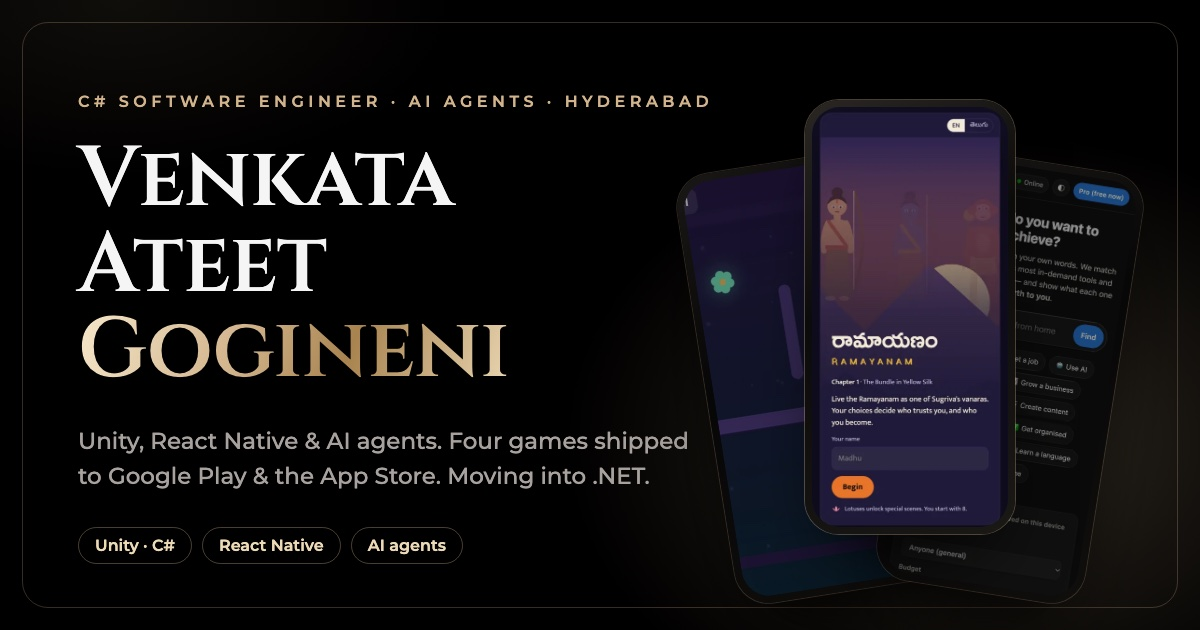
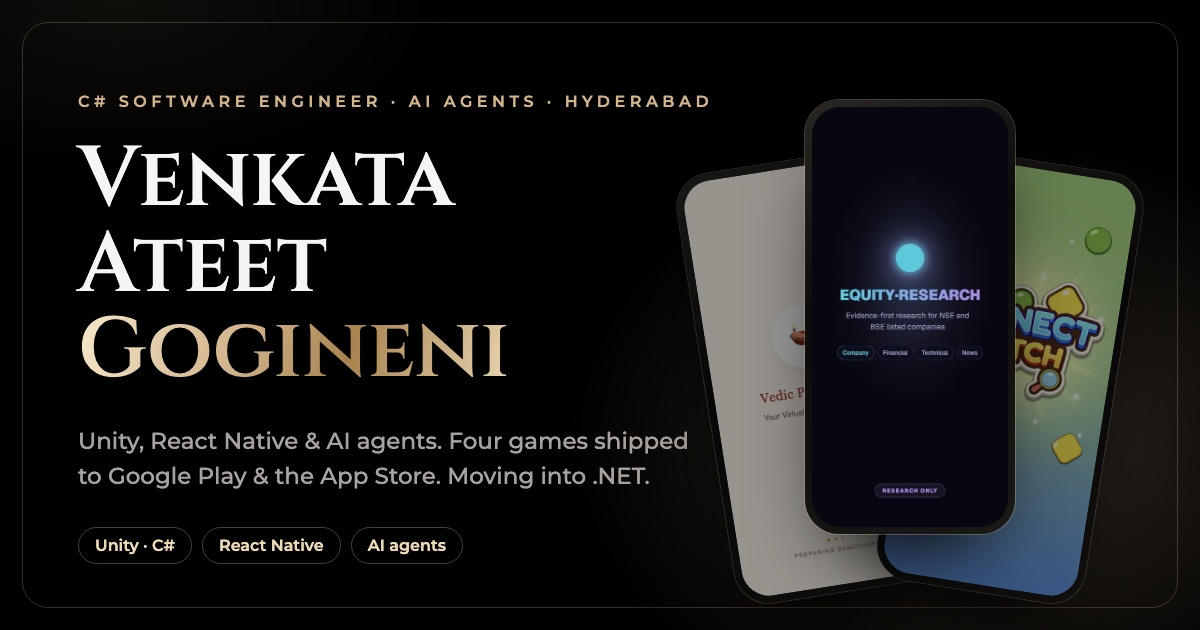
Hero splash screens, new projects, full name and copy updates
- Hero: five phones showing splash screens, colours mirrored around the
  centre: Land Lawyers, Vedic Pooja Guru, Equity Research, Connect Match,
  Home Server. Phones rise from the centre and fan out on scroll
- Splash screens built from each project's real branding; Connect Match
  uses the game's own splash screen
- Projects: stock card branded "Equity Research Agent"; new Vedic Pooja
  Guru and Glowpath cards; WorthIt beside Vedic; Glowpath, Ramayanam and
  Glowmoth in one games row; Land Lawyers links to landlawyers.in
- Top bar shows the full name; rewritten statement; "12K+ downloads
  across all games"; link-preview image matches the hero
- Remove unused hero screenshots

Changed region(s): [[0.555, 0.1508, 0.9558, 0.9651]]

diff --git a/index.html b/index.html
@@ -61,7 +61,7 @@
   <header class="nav" id="nav">
     <div class="nav-inner">
       <a href="#top" class="nav-logo" aria-label="Venkata Ateet Gogineni, back to top">
-        <span class="monogram">VA</span><span class="nav-name">Venkata Ateet</span>
+        <span class="monogram">VA</span><span class="nav-name">Venkata Ateet Gogineni</span>
       </a>
       <nav aria-label="Primary">
         <ul class="nav-links" id="navLinks">
@@ -118,10 +118,14 @@
       </div>
 
       <div class="hero-phones" aria-hidden="true">
-        <!-- Personal projects: Glowmoth (Unity), Ramayanam (web game), WorthIt (PWA) -->
-        <div class="hero-phone hp-left"><div class="phone"><div class="phone-screen"><img src="assets/img/projects/glowmoth-mobile.webp" alt="" width="420" height="748" fetchpriority="high" /></div></div></div>
-        <div class="hero-phone hp-center"><div class="phone"><div class="phone-screen"><img src="assets/img/projects/ramayanam-mobile.webp" alt="" width="420" height="909" fetchpriority="high" /></div><span class="island"></span></div></div>
-        <div class="hero-phone hp-right"><div class="phone"><div class="phone-screen"><img src="assets/img/projects/worthit-mobile.webp" alt="" width="420" height="909" fetchpriority="high" /></div></div></div>
+        <!-- Five splash screens, colours mirrored around the centre:
+             Land Lawyers (dark) · Vedic Pooja Guru (colour) · Equity Research (dark, centre) · Connect Match (colour) · Home Server (dark).
+             data-ring = distance from centre (intro order). -->
+        <div class="hero-phone hp-1" data-ring="2"><div class="phone"><div class="phone-screen"><img src="assets/img/projects/landlawyers-splash.webp" alt="" width="420" height="909" /></div></div></div>
+        <div class="hero-phone hp-2" data-ring="1"><div class="phone"><div class="phone-screen"><img src="assets/img/projects/vedic-splash.webp" alt="" width="420" height="909" fetchpriority="high" /></div></div></div>
+        <div class="hero-phone hp-3" data-ring="0"><div class="phone"><div class="phone-screen"><img src="assets/img/projects/equity-splash.webp" alt="" width="420" height="909" fetchpriority="high" /></div><span class="island"></span></div></div>
+        <div class="hero-phone hp-4" data-ring="1"><div class="phone"><div class="phone-screen"><img src="assets/img/projects/connect-splash.webp" alt="" width="420" height="913" fetchpriority="high" /></div></div></div>
+        <div class="hero-phone hp-5" data-ring="2"><div class="phone"><div class="phone-screen"><img src="assets/img/projects/homeserver-splash.webp" alt="" width="420" height="909" /></div></div></div>
       </div>
 
       <a href="#statement" class="scroll-cue" aria-label="Scroll down"><svg><use href="#i-down"/></svg></a>
@@ -131,7 +135,7 @@
     <section class="statement" id="statement">
       <div class="container">
         <p class="statement-text" data-words>
-          I take ideas from a blank canvas to the <em>store</em>. Game design, art, code and QA, done <em>end to end</em>. At PurpleTalk I work <em>AI-first</em>: I create and run agents with Claude Code, Codex and Antigravity across <em>projects in parallel</em>, while I own design, review and testing.
+          From first sketch to store listing, I build games and apps <em>end to end</em>. I work <em>AI-first</em>, with agents running <em>in parallel</em>, so more gets shipped while I stay in charge of design, review and testing.
         </p>
       </div>
     </section>
@@ -140,7 +144,7 @@
     <section class="stats" aria-label="Highlights">
       <div class="container stats-grid">
         <div class="stat" data-reveal><span class="stat-num"><span data-count="4">4</span>+</span><span class="stat-label">Years building<br/>for mobile</span></div>
-        <div class="stat" data-reveal><span class="stat-num"><span data-count="12">12</span>K+</span><span class="stat-label">Downloads across<br/>my solo games</span></div>
+        <div class="stat" data-reveal><span class="stat-num"><span data-count="12">12</span>K+</span><span class="stat-label">Downloads across<br/>all games</span></div>
         <div class="stat" data-reveal><span class="stat-num"><span data-count="14">14</span>+</span><span class="stat-label">Major projects<br/>delivered</span></div>
         <div class="stat" data-reveal><span class="stat-num"><span data-count="50">50</span>+</span><span class="stat-label">Dashboards<br/>built</span></div>
       </div>
@@ -254,9 +258,10 @@
         </div>
 
         <div class="bento">
-          <!-- AI Stock Research -->
+          <!-- Equity Research Agent (AI Stock Research Platform) -->
           <article class="card card-feature" data-card>
             <div class="card-visual agents" aria-hidden="true">
+              <div class="eq-brand"><i></i><span>EQUITY·RESEARCH</span></div>
               <div class="agent-q">Search: "TCS"</div>
               <div class="agent-row">
                 <span class="agent">Company</span><span class="agent">Financial</span><span class="agent">Technical</span><span class="agent">News</span>
@@ -265,9 +270,9 @@
               <div class="agent-out">Source-backed report<small>every figure cited · replayable snapshot</small></div>
             </div>
             <div class="card-body">
-              <p class="card-kicker">Personal · AI agents</p>
-              <h3 class="card-title">AI Stock Research Platform</h3>
-              <p>Source-backed research reports for NSE-listed companies. Company, Financial, Technical and News agents plus a bull-vs-bear debate run in parallel on the Claude or Gemini API with model fallback, and a verification step strips any uncited fact. Deterministic engines handle ratios, 20+ data-quality checks, risk metrics and walk-forward forecasts; an options module prices with Black-Scholes and binomial models across 13 strategies. Every report is a hashed, replayable snapshot.</p>
+              <p class="card-kicker">Personal · AI stock research platform</p>
+              <h3 class="card-title">Equity Research Agent</h3>
+              <p>Evidence-first, source-backed research reports for NSE and BSE listed companies. Company, Financial, Technical and News agents plus a bull-vs-bear debate run in parallel on the Claude or Gemini API with model fallback, and a verification step strips any uncited fact. Deterministic engines handle ratios, 20+ data-quality checks, risk metrics and walk-forward forecasts; an options module prices with Black-Scholes and binomial models across 13 strategies. Every report is a hashed, replayable snapshot.</p>
               <ul class="chips"><li>Python</li><li>FastAPI</li><li>Next.js</li><li>React</li><li>TypeScript</li><li>Claude &amp; Gemini APIs</li><li>SQLAlchemy</li><li>pytest</li></ul>
               <div class="card-links"><a href="https://github.com/ateetgogineni/Stock_Market" target="_blank" rel="noopener" class="link"><svg><use href="#i-github"/></svg>Source</a></div>
             </div>
@@ -281,11 +286,27 @@
               <h3 class="card-title">Land Lawyers</h3>
               <p>Land verification and legal services platform for Telangana and Andhra Pradesh: a public website plus a separate team dashboard, both on one Node.js and PostgreSQL backend, packaged with Docker for the client to host.</p>
               <ul class="chips"><li>Node.js</li><li>PostgreSQL</li><li>Docker</li><li>HTML · CSS · JS</li></ul>
+              <div class="card-links"><a href="https://landlawyers.in/" target="_blank" rel="noopener" class="link link-gold"><svg><use href="#i-arrow"/></svg>Visit site</a></div>
+            </div>
+          </article>
+
+          <!-- Vedic Pooja Guru -->
+          <article class="card card-half" data-card>
+            <div class="card-shot card-screens" aria-hidden="true">
+              <img src="assets/img/projects/vedic-home.webp" alt="" width="420" height="1452" loading="lazy" />
+              <img src="assets/img/projects/vedic-ganesh.webp" alt="" width="420" height="1310" loading="lazy" />
+              <img src="assets/img/projects/vedic-deepa.webp" alt="" width="420" height="952" loading="lazy" />
+            </div>
+            <div class="card-body">
+              <p class="card-kicker">Personal · Mobile app</p>
+              <h3 class="card-title">Vedic Pooja Guru</h3>
+              <p>AI-powered pooja assistant that guides users step by step through Hindu rituals, works out item quantities from the headcount and answers questions by voice, personalised by region and language. Includes a pooja library with search, daily rituals, panchangam, an astrology profile and AI chat.</p>
+              <ul class="chips"><li>React Native</li><li>TypeScript</li><li>Supabase</li><li>Text-to-speech</li><li>AI chat</li></ul>
             </div>
           </article>
 
           <!-- WorthIt -->
-          <article class="card" data-card>
+          <article class="card card-half" data-card>
             <div class="card-shot"><img src="assets/img/projects/worthit.webp" alt="WorthIt dashboard: What do you want to achieve?" width="900" height="563" loading="lazy" /></div>
             <div class="card-body">
               <p class="card-kicker">Personal · PWA</p>
@@ -296,6 +317,18 @@
                 <a href="https://ateetgogineni.github.io/worthit-dashboard/" target="_blank" rel="noopener" class="link link-gold"><svg><use href="#i-arrow"/></svg>Live</a>
                 <a href="https://github.com/ateetgogineni/worthit-dashboard" target="_blank" rel="noopener" class="link"><svg><use href="#i-github"/></svg>Source</a>
               </div>
+            </div>
+          </article>
+
+          <!-- Games row: Glowpath, Ramayanam, Glowmoth -->
+          <!-- Glowpath -->
+          <article class="card" data-card>
+            <div class="card-shot"><img src="assets/img/projects/glowpath.webp" alt="Glowpath title screen: Bend the light. Wake the crystals." width="900" height="563" loading="lazy" /></div>
+            <div class="card-body">
+              <p class="card-kicker">Personal · Puzzle game</p>
+              <h3 class="card-title">Glowpath</h3>
+              <p>A calm light-bending logic puzzle with a new challenge every day. A level generator keeps only solvable, quality-checked puzzles and a verifier proves every level can be solved. WebAudio sound; installs as an offline PWA and ships as an Android app.</p>
+              <ul class="chips"><li>JavaScript</li><li>Procedural generation</li><li>WebAudio</li><li>PWA</li><li>Android</li></ul>
             </div>
           </article>
 

diff --git a/css/style.css b/css/style.css
@@ -238,7 +238,10 @@ em { font-style: normal; }
   color: var(--gold);
   background: linear-gradient(160deg, rgba(210, 180, 140, 0.14), rgba(210, 180, 140, 0.02));
 }
-.nav-name { font-family: var(--font-display); font-size: 17px; font-weight: 500; letter-spacing: 0.06em; }
+.nav-name { font-family: var(--font-display); font-size: 17px; font-weight: 500; letter-spacing: 0.06em; white-space: nowrap; }
+@media (max-width: 1180px) { .nav-name { font-size: 15px; letter-spacing: 0.04em; } }
+@media (max-width: 640px) { .nav-name { font-size: 13px; letter-spacing: 0.02em; } }
+@media (max-width: 360px) { .nav-name { font-size: 11.5px; } }
 .nav-links { display: flex; gap: 30px; }
 .nav-links a {
   position: relative;
@@ -351,22 +354,34 @@ em { font-style: normal; }
 .hero-sub { margin: 18px auto 0; max-width: 560px; font-size: 15px; color: var(--subtle); }
 .hero-cta { margin-top: 34px; display: flex; gap: 14px; justify-content: center; flex-wrap: wrap; }
 
+/* Five-phone arc around one centre phone. Each phone sets --x (offset from
+   centre, in phone widths), --r (tilt), --s (size), --t (drop), --z (depth)
+   and --b (brightness). */
 .hero-phones {
+  --pw: clamp(160px, 16.5vw, 246px);
   position: relative;
   z-index: 1;
   margin-top: clamp(48px, 8vh, 90px);
-  width: min(100%, 860px);
-  height: clamp(420px, 56vw, 640px);
-  display: flex;
-  justify-content: center;
+  width: 100%;
+  height: calc(var(--pw) * 2.07 + 60px);
 }
-.hero-phone { position: absolute; top: 0; will-change: transform; }
-.hp-center { z-index: 3; left: 50%; margin-left: calc(var(--pw) / -2); --pw: clamp(220px, 27vw, 300px); }
-.hp-left, .hp-right { z-index: 2; top: 9%; --pw: clamp(180px, 22vw, 250px); }
-.hp-left { left: 50%; margin-left: calc(var(--pw) * -1.32); transform: rotate(-7deg); }
-.hp-right { left: 50%; margin-left: calc(var(--pw) * 0.32); transform: rotate(7deg); }
-.hero-phone .phone { width: var(--pw); }
-.hp-left .phone, .hp-right .phone { filter: brightness(0.62); }
+.hero-phone {
+  position: absolute;
+  top: var(--t, 0);
+  left: 50%;
+  width: var(--pw);
+  margin-left: calc(var(--pw) * (var(--x, 0) - 0.5));
+  z-index: var(--z, 1);
+  transform: rotate(var(--r, 0deg)) scale(var(--s, 1));
+  transform-origin: 50% 85%;
+  will-change: transform;
+}
+.hero-phone .phone { width: 100%; filter: brightness(var(--b, 1)); }
+.hp-1 { --x: -1.74; --r: -12deg; --s: 0.78; --t: 13%; --z: 1; --b: 0.74; }
+.hp-2 { --x: -0.92; --r: -6deg;  --s: 0.9;  --t: 5%;  --z: 2; --b: 0.92; }
+.hp-3 { --x: 0;     --r: 0deg;   --s: 1.04; --t: 0;   --z: 3; }
+.hp-4 { --x: 0.92;  --r: 6deg;   --s: 0.9;  --t: 5%;  --z: 2; --b: 0.92; }
+.hp-5 { --x: 1.74;  --r: 12deg;  --s: 0.78; --t: 13%; --z: 1; --b: 0.74; }
 
 .scroll-cue {
   position: absolute; left: 50%; bottom: 26px; z-index: 4;
@@ -610,8 +625,40 @@ em { font-style: normal; }
 .card:hover .card-shot img { transform: scale(1.04); }
 .card-shot-contain { background: radial-gradient(circle at 50% 60%, #1b1a2a, #08080c); }
 .card-shot-contain img { object-fit: contain; padding: 12px; }
+.card-half { grid-column: span 6; }
 
-/* Agent diagram (AI Stock Research card) */
+/* Three app screens side by side (Vedic Vidhi) */
+.card-screens {
+  display: flex; justify-content: center; align-items: flex-start; gap: 14px;
+  padding: 24px 24px 0;
+  background:
+    radial-gradient(80% 90% at 50% 100%, rgba(233, 134, 46, 0.22), transparent 70%),
+    #0d0a07;
+}
+.card-screens img {
+  width: 27%; height: auto;
+  aspect-ratio: 9 / 16;
+  object-fit: cover; object-position: top;
+  border-radius: 14px;
+  border: 1px solid rgba(255, 255, 255, 0.1);
+  box-shadow: 0 24px 40px -24px #000;
+}
+.card-screens img:nth-child(2) { width: 31%; margin-top: -8px; }
+
+/* Agent diagram (Equity Research card) */
+.eq-brand {
+  display: inline-flex; align-items: center; gap: 10px;
+  font-family: "Montserrat", sans-serif; font-weight: 800; font-size: 15px; letter-spacing: 0.02em;
+}
+.eq-brand i {
+  width: 12px; height: 12px; border-radius: 50%;
+  background: #5ec8db;
+  box-shadow: 0 0 6px #5ec8db, 0 0 12px rgba(169, 138, 230, 0.8);
+}
+.eq-brand span {
+  background: linear-gradient(90deg, #5ec8db, #a98ae6);
+  -webkit-background-clip: text; background-clip: text; color: transparent;
+}
 .agents {
   display: grid; justify-items: center; gap: 16px;
   padding: 34px 24px 30px;
@@ -859,6 +906,7 @@ em { font-style: normal; }
 
 @media (max-width: 1080px) {
   .nav-links { gap: 22px; }
+  .nav-cta { display: none; }
   .card-feature, .card-tall { grid-column: span 12; }
   .card { grid-column: span 6; }
   .card-compact { grid-column: span 6; }
@@ -893,14 +941,13 @@ em { font-style: normal; }
   .hero-eyebrow { display: block; font-size: 10.5px; letter-spacing: 0.16em; line-height: 1.9; }
   .hero-eyebrow .status-dot { display: inline-block; vertical-align: 1px; margin-right: 8px; width: 7px; height: 7px; }
   .hero-cta .btn { flex: 1 1 100%; }
-  .hero-phones { height: 118vw; max-height: 520px; margin-top: 44px; }
-  .hp-center { --pw: 52vw; }
-  .hp-left, .hp-right { --pw: 40vw; top: 12%; }
-  .hp-left { margin-left: calc(var(--pw) * -1.12); }
-  .hp-right { margin-left: calc(var(--pw) * 0.12); }
+  .hero-phones { --pw: 46vw; margin-top: 44px; }
+  .hp-1, .hp-5 { display: none; }
+  .hp-2 { --x: -0.95; }
+  .hp-4 { --x: 0.95; }
   .scroll-cue { display: none; }
 
-  .card, .card-compact, .card-feature, .card-tall { grid-column: span 12; }
+  .card, .card-compact, .card-feature, .card-tall, .card-half { grid-column: span 12; }
   .card-body { padding: 22px; }
   .earlier-grid, .skills, .edu { grid-template-columns: 1fr; }
   .game-facts { gap: 26px; }

diff --git a/js/main.js b/js/main.js
@@ -88,8 +88,10 @@
     heroSeq.forEach(function (el, i) {
       el.style.setProperty('--d', (0.15 + i * 0.12).toFixed(2) + 's');
     });
-    $$('.hero-phone').forEach(function (el, i) {
-      el.style.setProperty('--d', (0.55 + [1, 0, 2][i] * 0.14).toFixed(2) + 's');
+    // Phones rise from the centre outwards (data-ring: 0 = front pair, 2 = outer edges)
+    $$('.hero-phone').forEach(function (el) {
+      var ring = parseInt(el.getAttribute('data-ring'), 10) || 0;
+      el.style.setProperty('--d', (0.55 + ring * 0.14).toFixed(2) + 's');
     });
     requestAnimationFrame(function () {
       requestAnimationFrame(function () {
@@ -182,18 +184,32 @@
   // every later trigger accounts for the scroll space its pin adds.
   var mm = gsap.matchMedia();
 
-  // Hero: copy recedes, phones rise and fan out
+  // Each phone's place in the arc comes from its CSS custom properties.
+  var phoneVar = function (el, name, fallback) {
+    var v = parseFloat(getComputedStyle(el).getPropertyValue(name));
+    return isNaN(v) ? fallback : v;
+  };
+
+  // Hero: copy recedes, the six phones rise and fan out from the centre
   mm.add('(min-width: 901px)', function () {
     var tl = gsap.timeline({
-      scrollTrigger: { trigger: '.hero', start: 'top top', end: '+=85%', scrub: 0.8, pin: true, anticipatePin: 1 }
+      scrollTrigger: { trigger: '.hero', start: 'top top', end: '+=85%', scrub: 0.8, pin: true, anticipatePin: 1, invalidateOnRefresh: true }
     });
     tl.to('.hero-copy', { yPercent: -18, opacity: 0, scale: 0.94, ease: 'none', duration: 0.5 }, 0)
-      .to('.hero-phones', { y: function () { return -window.innerHeight * 0.42; }, ease: 'none', duration: 1 }, 0)
-      .to('.hp-center', { scale: 1.12, ease: 'none', duration: 1 }, 0)
-      .to('.hp-left', { xPercent: -42, rotation: -13, y: 30, ease: 'none', duration: 1 }, 0)
-      .to('.hp-right', { xPercent: 42, rotation: 13, y: 30, ease: 'none', duration: 1 }, 0)
+      .to('.hero-phones', { y: function () { return -window.innerHeight * 0.5; }, ease: 'none', duration: 1 }, 0)
       .to('.hero-glow', { scale: 1.25, ease: 'none', duration: 1 }, 0)
       .to('.scroll-cue', { opacity: 0, ease: 'none', duration: 0.15 }, 0);
+    $$('.hero-phone').forEach(function (el) {
+      var x = phoneVar(el, '--x', 0);
+      var front = Math.abs(x) < 0.5;
+      tl.to(el, {
+        x: function () { return x * el.offsetWidth * 0.15; },
+        rotation: '+=' + (x * 1.6).toFixed(2),
+        scale: phoneVar(el, '--s', 1) * (front ? 1.08 : 1),
+        y: front ? -12 : Math.abs(x) * 10,
+        ease: 'none', duration: 1
+      }, 0);
+    });
   });
 
   mm.add('(max-width: 900px)', function () {
@@ -201,8 +217,15 @@
       yPercent: -12, opacity: 0.2, ease: 'none',
       scrollTrigger: { trigger: '.hero', start: 'top top', end: 'bottom 30%', scrub: true }
     });
-    gsap.to('.hp-left', { xPercent: -18, rotation: -11, ease: 'none', scrollTrigger: { trigger: '.hero-phones', start: 'top 85%', end: 'bottom 40%', scrub: true } });
-    gsap.to('.hp-right', { xPercent: 18, rotation: 11, ease: 'none', scrollTrigger: { trigger: '.hero-phones', start: 'top 85%', end: 'bottom 40%', scrub: true } });
+    $$('.hero-phone').forEach(function (el) {
+      var x = phoneVar(el, '--x', 0);
+      gsap.to(el, {
+        x: function () { return x * el.offsetWidth * 0.12; },
+        rotation: '+=' + (x * 2).toFixed(2),
+        ease: 'none',
+        scrollTrigger: { trigger: '.hero-phones', start: 'top 85%', end: 'bottom 40%', scrub: true }
+      });
+    });
   });
 
   // Split the statement into words, keeping <em> highlights
